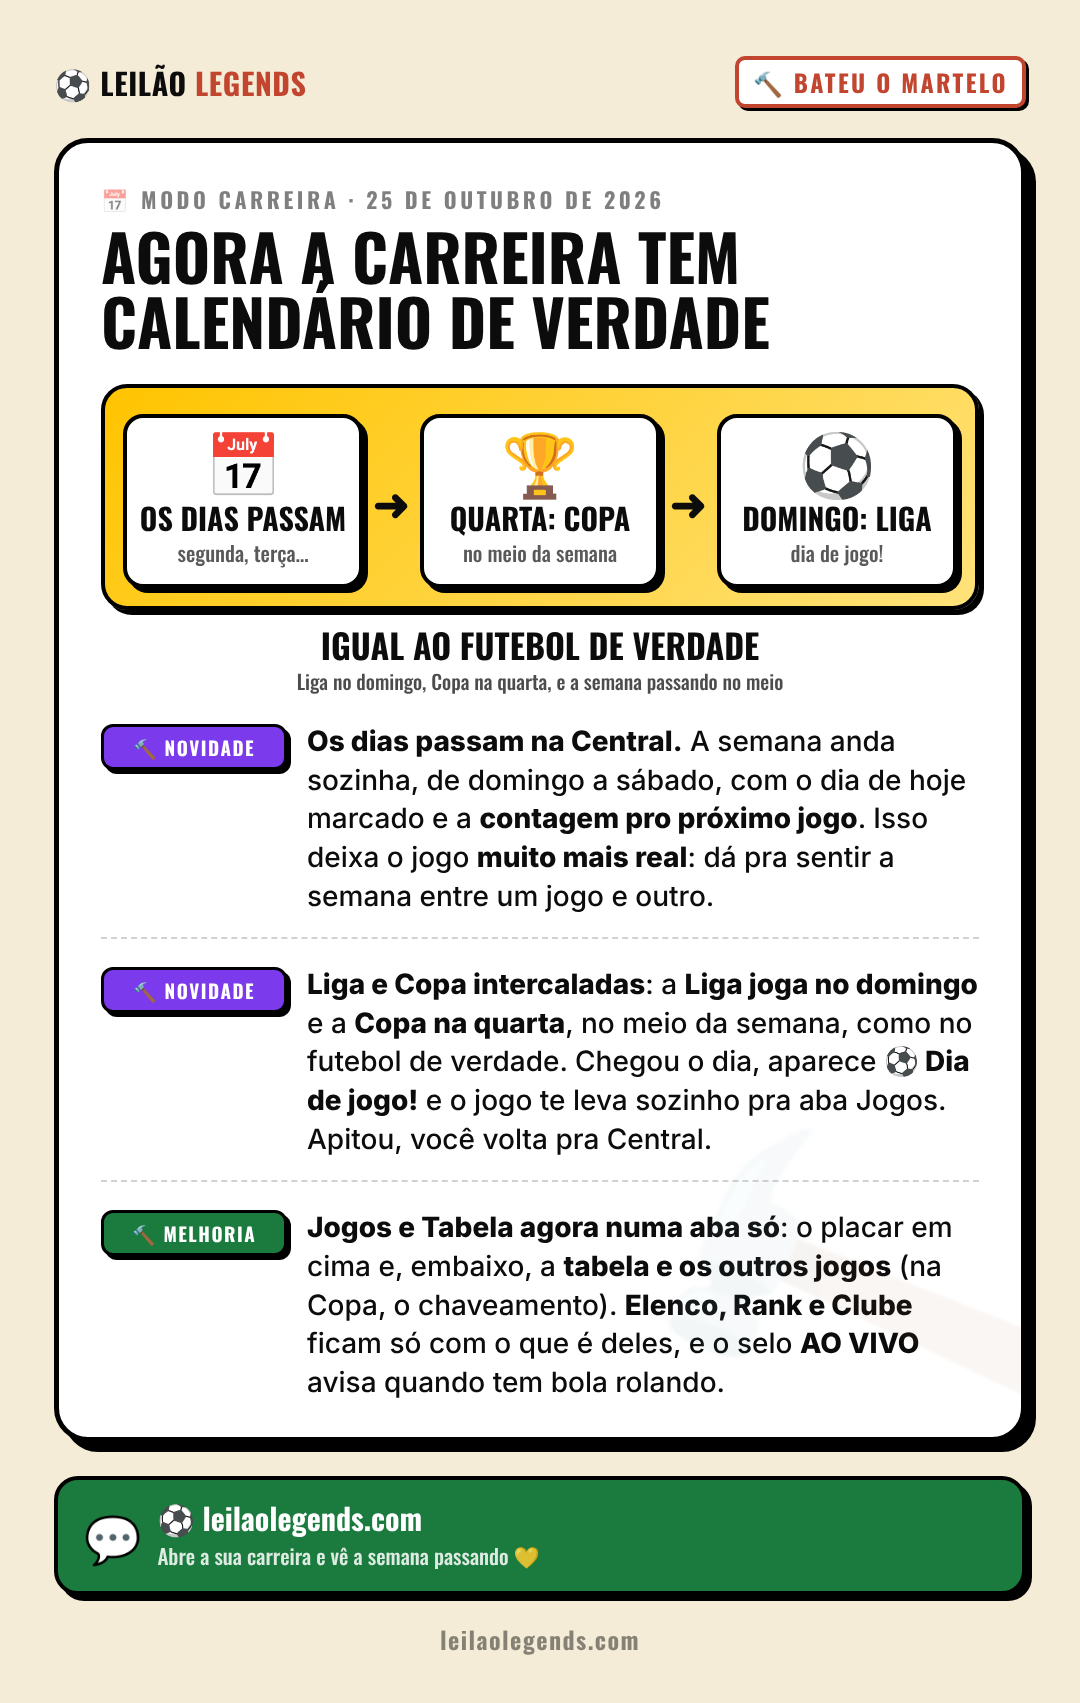
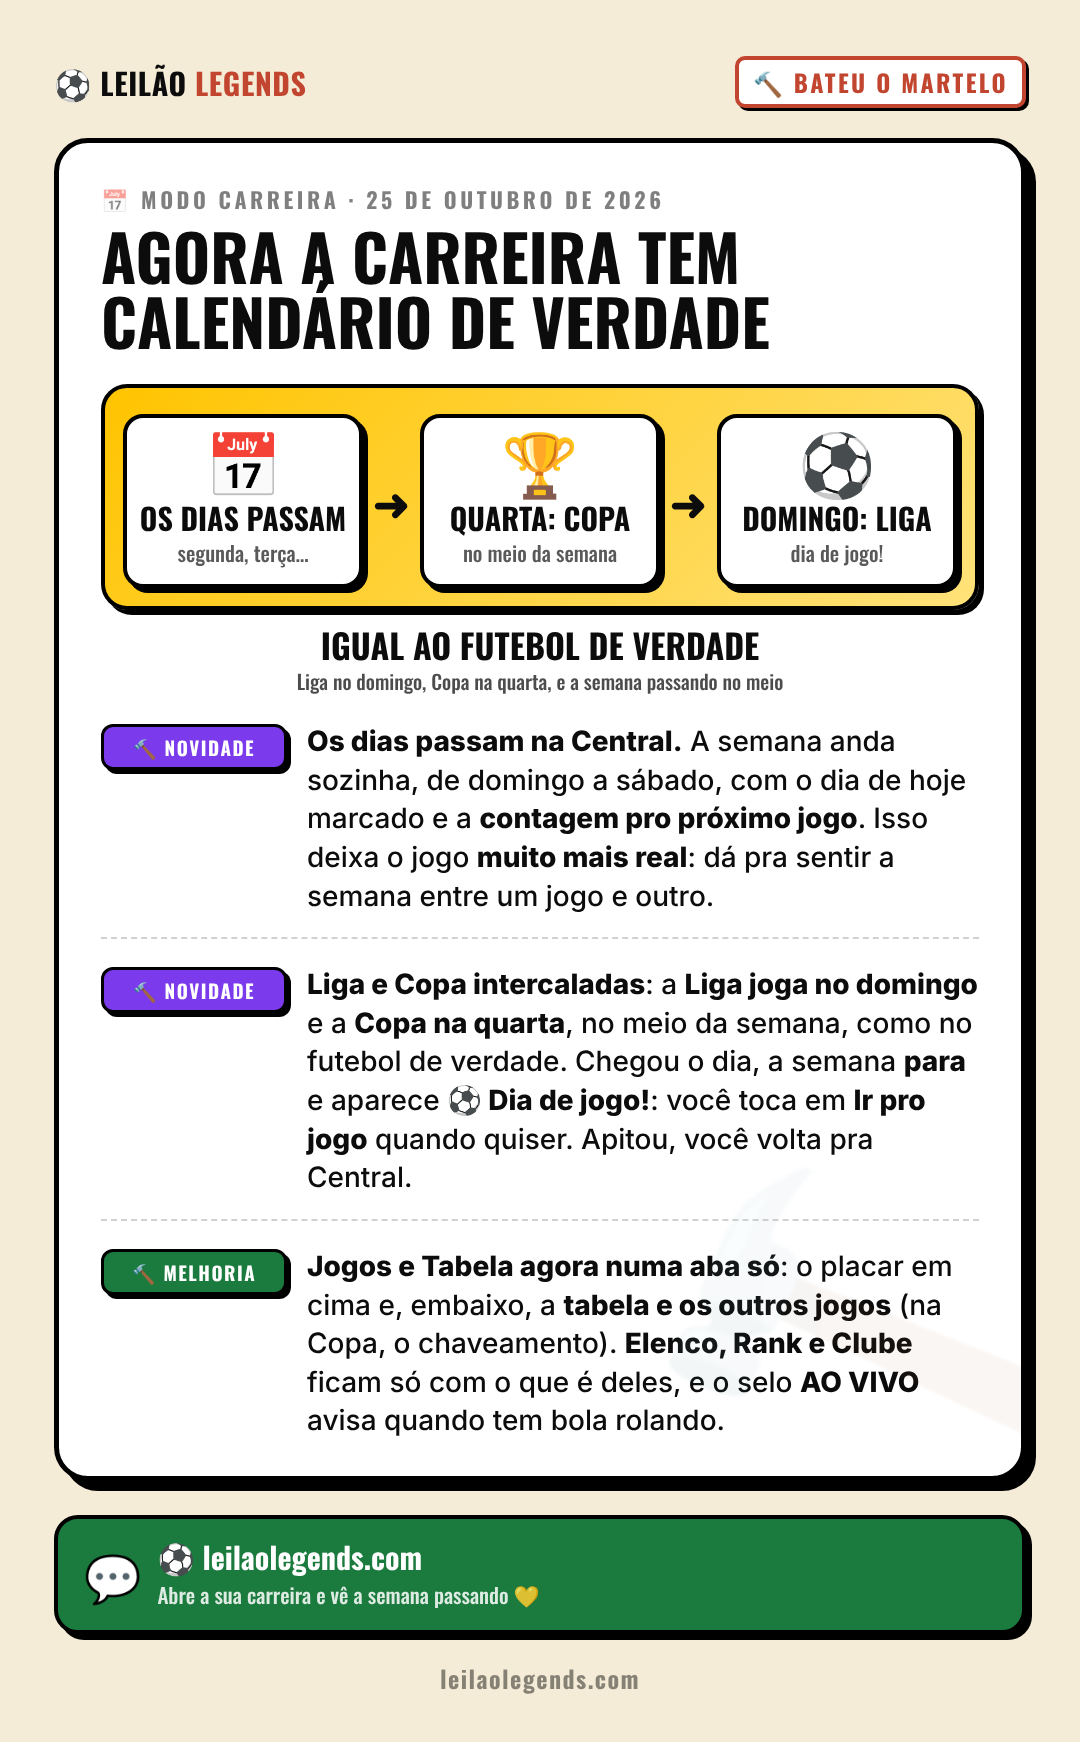
Calendário: o Dia de jogo não pula mais sozinho (para e espera o toque em Ir pro jogo) e o cartão da semana ocupa a linha toda na Central
Claude-Session: https://claude.ai/code/session_012GPrTDbpvrApA6DArkzCpE

Changed region(s): [[0.0611, 0.0311, 0.9472, 0.6847], [0.0611, 0.6847, 0.9472, 0.9648]]

diff --git a/src/escalacao/pyramidseason.tsx b/src/escalacao/pyramidseason.tsx
@@ -10523,8 +10523,8 @@ export function PyramidSeasonScreen() {
   useEffect(() => { publicaControleMapa(controleMapa && { ...controleMapa, dia: calOn ? calBarra?.selo : undefined, irProJogo: calOn && !chegando ? calBarra?.irProJogoNoMapa : undefined, chegando }) })
   useEffect(() => () => publicaControleMapa(null), [])
   // 📅 25/10 — A CENTRAL É A CASA (ideia do Diego, mockup `calendario-fluxo.png`): os dias passam na Central; chegou o dia do
-  // jogo (a semana acabou no automático, ou a Copa da quarta entrou), aparece "Dia de jogo!" e em 3s vai sozinho pra aba Jogos —
-  // dá pra tocar em "ficar aqui". Apitou (e nada pendente), 3s depois volta pra Central. Só com o calendário (conta do Diego).
+  // jogo (a semana acabou no automático, ou a Copa da quarta entrou), aparece "Dia de jogo!" e PARA: a pessoa toca em "Ir pro jogo"
+  // (ou "agora não", e vai depois pelo ⏩ do cartão). Apitou (e nada pendente), 3s depois volta pra Central. Só com o calendário (conta do Diego).
   const diaJogoKey = `${calSn}:${round}:${calFase}`
   const diaDeJogoNaCentral = calOn && !state.co2 && tab === 'central' && (
     (calFase === 'dias' && calLivre && !manual && calDiasOk && round >= 1 && round < 38 && !chegando) || (calFase === 'copa' && copaMidOn) || calFase === 'jogo') // (o 'jogo' = a rodada já está no ar — ex.: abriu a carreira no meio dela: na Central o relógio para)
@@ -10532,11 +10532,8 @@ export function PyramidSeasonScreen() {
   const [ficouAqui, setFicouAqui] = useState('')
   useEffect(() => { if (diaDeJogoNaCentral && ficouAqui !== diaJogoKey && diaJogo !== diaJogoKey) setDiaJogo(diaJogoKey) }, [diaDeJogoNaCentral, ficouAqui, diaJogoKey, diaJogo])
   useEffect(() => { if (diaJogo && tab !== 'central') setDiaJogo(null) }, [diaJogo, tab])
-  useEffect(() => {
-    if (!diaJogo) return
-    const t = setTimeout(() => { setDiaJogo(null); escolheAba('jogos') }, 3000)
-    return () => clearTimeout(t)
-  }, [diaJogo]) // eslint-disable-line react-hooks/exhaustive-deps
+  // 🛑 26/10 (Diego: *"não quero que pule de maneira automática… chegou o dia do jogo, para e o usuário decide se vai"*): sem relógio —
+  // o aviso fica parado até a pessoa tocar
   const vimDoJogo = useRef(false)
   useEffect(() => { if (tab !== 'jogos') vimDoJogo.current = false; else if (calOn && (calFase === 'jogo' || calFase === 'copa')) vimDoJogo.current = true }, [tab, calOn, calFase])
   useEffect(() => {
@@ -10552,8 +10549,8 @@ export function PyramidSeasonScreen() {
           <div style={{ fontSize: 44, lineHeight: 1 }}>{copaHoje ? '🏆' : '⚽'}</div>
           <b style={{ ...OSWALD, display: 'block', fontSize: 30, textTransform: 'uppercase', margin: '6px 0 2px' }}>{tr('Dia de jogo!', 'Match day!')}</b>
           <p style={{ fontSize: 12, fontWeight: 700, color: '#53534b', margin: '0 0 12px' }}>{copaHoje ? tr(`Copa · ${copaFaseName}`, `Cup · ${copaFaseName}`) : tr(`Liga · rodada ${calFase === 'jogo' ? round : round + 1}`, `League · round ${calFase === 'jogo' ? round : round + 1}`)}</p>
-          <button onClick={() => { setDiaJogo(null); escolheAba('jogos') }} style={{ ...OSWALD, width: '100%', fontSize: 18, textTransform: 'uppercase', background: GREEN, color: '#fff', border: `3px solid ${INK}`, borderRadius: 14, boxShadow: `3px 3px 0 ${INK}`, padding: 11, cursor: 'pointer' }}>{tr('⚽ Indo pro jogo…', '⚽ Off to the match…')}</button>
-          <button onClick={() => { setFicouAqui(diaJogo); setDiaJogo(null) }} style={{ background: 'none', border: 'none', marginTop: 10, fontSize: 12, fontWeight: 800, color: '#53534b', textDecoration: 'underline', cursor: 'pointer' }}>{tr('vai sozinho em 3s · ficar aqui', 'goes by itself in 3s · stay here')}</button>
+          <button onClick={() => { setDiaJogo(null); escolheAba('jogos') }} style={{ ...OSWALD, width: '100%', fontSize: 18, textTransform: 'uppercase', background: GREEN, color: '#fff', border: `3px solid ${INK}`, borderRadius: 14, boxShadow: `3px 3px 0 ${INK}`, padding: 11, cursor: 'pointer' }}>{tr('⚽ Ir pro jogo', '⚽ Go to the match')}</button>
+          <button onClick={() => { setFicouAqui(diaJogo); setDiaJogo(null) }} style={{ background: 'none', border: 'none', marginTop: 10, fontSize: 12, fontWeight: 800, color: '#53534b', textDecoration: 'underline', cursor: 'pointer' }}>{tr('agora não', 'not now')}</button>
         </div>
       </div>
     )

diff --git a/src/escalacao/novidades.ts b/src/escalacao/novidades.ts
@@ -34,7 +34,7 @@ import { getLang } from './lang'
 
 // ⚠ SEMPRE em ordem: a mais NOVA em cima.
 export const NOVIDADES: Novidade[] = [
-  { data: '2026-10-25', emoji: '📅', titulo: 'Calendário na carreira', texto: 'Agora a semana passa na Central: Liga no domingo, Copa na quarta e os dias andando no meio. Chegou o dia, aparece "Dia de jogo!" e o jogo te leva pra aba Jogos; apitou, você volta pra Central. (Carreira)', en: { titulo: 'Calendar in career', texto: 'The week now passes in the Hub: League on Sunday, Cup on Wednesday and the days ticking by in between. When the day comes, "Match day!" pops up and takes you to the Matches tab; at the final whistle you go back to the Hub. (Career)' } },
+  { data: '2026-10-25', emoji: '📅', titulo: 'Calendário na carreira', texto: 'Agora a semana passa na Central: Liga no domingo, Copa na quarta e os dias andando no meio. Chegou o dia, a semana para e aparece "Dia de jogo!": você toca e vai pra aba Jogos; apitou, você volta pra Central. (Carreira)', en: { titulo: 'Calendar in career', texto: 'The week now passes in the Hub: League on Sunday, Cup on Wednesday and the days ticking by in between. When the day comes, the week stops and "Match day!" pops up: tap it to go to the Matches tab; at the final whistle you go back to the Hub. (Career)' } },
   { data: '2026-10-25', emoji: '📊', titulo: 'Carreira mais arrumada', texto: 'Jogos e Tabela agora moram na mesma aba: o placar em cima, a tabela e os outros jogos embaixo (na Copa, o chaveamento). Elenco, Rank e Clube ficam só com o que é deles, e o selo AO VIVO avisa quando tem bola rolando. (Carreira)', en: { titulo: 'A tidier career', texto: 'Matches and Table now live in the same tab: the scoreboard on top, the table and the other matches below (in the Cup, the bracket). Squad, Rank and Club only show what belongs to them, and a LIVE badge tells you when the ball is rolling. (Career)' } },
   { data: '2026-10-24', emoji: '🏆', titulo: 'Festa de campeão na carreira', texto: 'Ganhou a Várzea, uma Série, a Copa, a Supercopa, a Libertadores, a Champions, o Mundial ou a Copa do Mundo? Festa em tela cheia com o troféu de cada campeonato, o seu escudo, a mascote, o artilheiro e o garçom — e toda final em que você joga abre com o túnel da final. (Carreira)', en: { titulo: 'Champion party in career', texto: 'Won the Várzea, a Série, the Cup, the Super Cup, the Libertadores, the Champions, the Club World Cup or the World Cup? A full-screen party with each competition\u2019s trophy, your crest, the mascot, the top scorer and top assister — and every final you play opens with the final tunnel. (Career)' } },
   { data: '2026-10-23', emoji: '🖥', titulo: 'Jogo de computador com tela de computador', texto: 'No PC, criar sala mostra todas as etapas abertas com o resumo da sua sala ao lado, e na liga e na copa a tabela (ou os jogos da fase) fica fixa do lado do placar, sem precisar rolar. (Salas e partida rápida)', en: { titulo: 'A computer screen for computer players', texto: 'On PC, creating a room shows every step open with your room summary alongside, and in the league and cup the table (or the round\'s ties) stays fixed next to the scoreboard, no scrolling. (Rooms and quick match)' } },

diff --git a/src/escalacao/central.tsx b/src/escalacao/central.tsx
@@ -215,7 +215,7 @@ export function CentralCarreira(p: CentralProps) {
       <div className="ll-central-grid">
         <div className="ll-central-esq">
           {/* 🏟 O CAMAROTE: próximo jogo + o botão de sempre */}
-          {p.semana ? <div className="ll-c-hero">{p.semana}</div> : <div className="ll-central-card ll-c-hero" style={{ background: `#0a1a12 url(${FUNDOS[p.proximo?.arte ?? p.palco?.arte ?? 'estadio']}) center 40% / cover`, position: 'relative', color: '#fff', borderColor: '#847657', minHeight: 372 }}>
+          {p.semana ? <div className="ll-c-hero" style={{ flex: '0 0 100%', minWidth: 0 }}>{p.semana}</div> : <div className="ll-central-card ll-c-hero" style={{ background: `#0a1a12 url(${FUNDOS[p.proximo?.arte ?? p.palco?.arte ?? 'estadio']}) center 40% / cover`, position: 'relative', color: '#fff', borderColor: '#847657', minHeight: 372 }}>
             <div style={{ position: 'absolute', inset: 0, background: 'linear-gradient(180deg,#0002 0%,#0001 30%,#0C0C0Cc9 66%,#0C0C0Cf5 100%)' }} />
             <div style={{ position: 'relative', padding: '12px 13px 13px', display: 'flex', flexDirection: 'column', minHeight: 372 }}>
               <div style={{ display: 'flex', justifyContent: 'space-between', alignItems: 'center', gap: 8 }}>

diff --git a/CLAUDE.md b/CLAUDE.md
@@ -1029,6 +1029,7 @@ As sessões não se veem — o repo é a memória comum. Então TODA sessão dev
   (20) **O DIA DO JOGADOR PESA, PROS 22 (21/10, *"sim, também quero, mas vale pra qualquer jogador dos dois lados"*):** o nível do
   dia é sorteado na faixa INTEIRA lo–hi (dia ruim e ápice tão comuns quanto o meio) e a FORMA do dia vale ±8% no que ele rende
   (técnica; no goleiro, reflexo). Medido com os mesmos 2 times: time no dia ruim ganha 23% · normal 37% · dia bom 56%.
+- **📅 CALENDÁRIO: O DIA DE JOGO NUNCA PULA SOZINHO (26/10, regra dele).** *"Não quero que pule de maneira automática… chegou o dia do jogo, para e o usuário decide se vai"*. A semana passa na Central e PARA no dia do jogo com o aviso "⚽ Dia de jogo!" (Ir pro jogo / agora não). Nada de relógio que leva pra aba Jogos.
 - **🎤 COLETIVA = PASSO DEPOIS DO JOGO (20/10, FEITA — `ColetivaPasso` em `coletiva-ui.tsx`).** *"não tá tendo sentido entrevista embaixo do jogo… tem
   que ser passo a passo: após o jogo, quando ele avançar ou pular, aparecer, mas sem mostrar o próximo jogo… e melhorar MUITO
   visualmente, tá muito feio"*. Tela cheia no toque de avançar, o próximo jogo só depois; embaixo do jogo, só o aviso. **Nunca

diff --git a/docs/pendencias.md b/docs/pendencias.md
@@ -10991,3 +10991,4 @@ Escada que está saindo da conversa (ele ainda vai fechar o valor do vitalício)
 - Testado na bancada: Central → aviso → Jogos (rodada 2) → Central (seg→sáb) → aviso → Jogos (rodada 3) → Central, sem erro.
 - 📢 Aviso da comunidade pronto: `scripts/posts/aviso-2026-10-25-calendario-carreira.png` — só postar quando o calendário for liberado pra todos (hoje é só da conta dele).
 - 🟢 LIBERADO PRA TODOS em 25/10 (`CALENDARIO_GERAL = true`, sport.ts; *"publique pra todos já sem o mapa 3D e campo 2D"*). Reverter = `false`. Testado sem login: semana na Central, aviso, jogo, volta; sem botão 3D. Pendente: o 3D ainda não foi testado com o mapa aberto na bancada (precisa da conta dele).
+- 🛑 26/10 (Diego, print da Central): *"não quero que pule de maneira automática… chegou o dia do jogo, para e o usuário decide se vai"*. Saiu o relógio de 3s: o "Dia de jogo!" fica parado com "⚽ Ir pro jogo" / "agora não" (aí vai pelo ⏩ do cartão). Conserto junto: o cartão da semana na Central não ocupava a linha toda (faltava `flex: 0 0 100%` no lugar do camarote) e ficava estreito/fora de ordem. A volta pra Central depois do apito continua.
